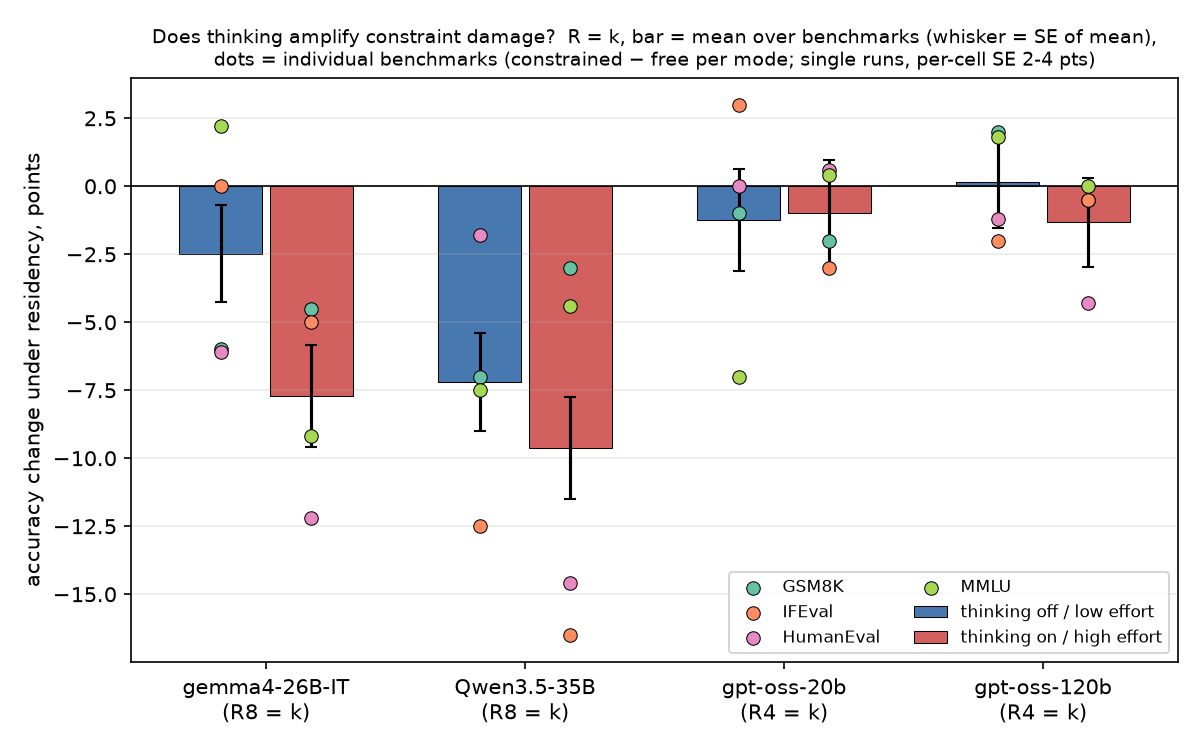
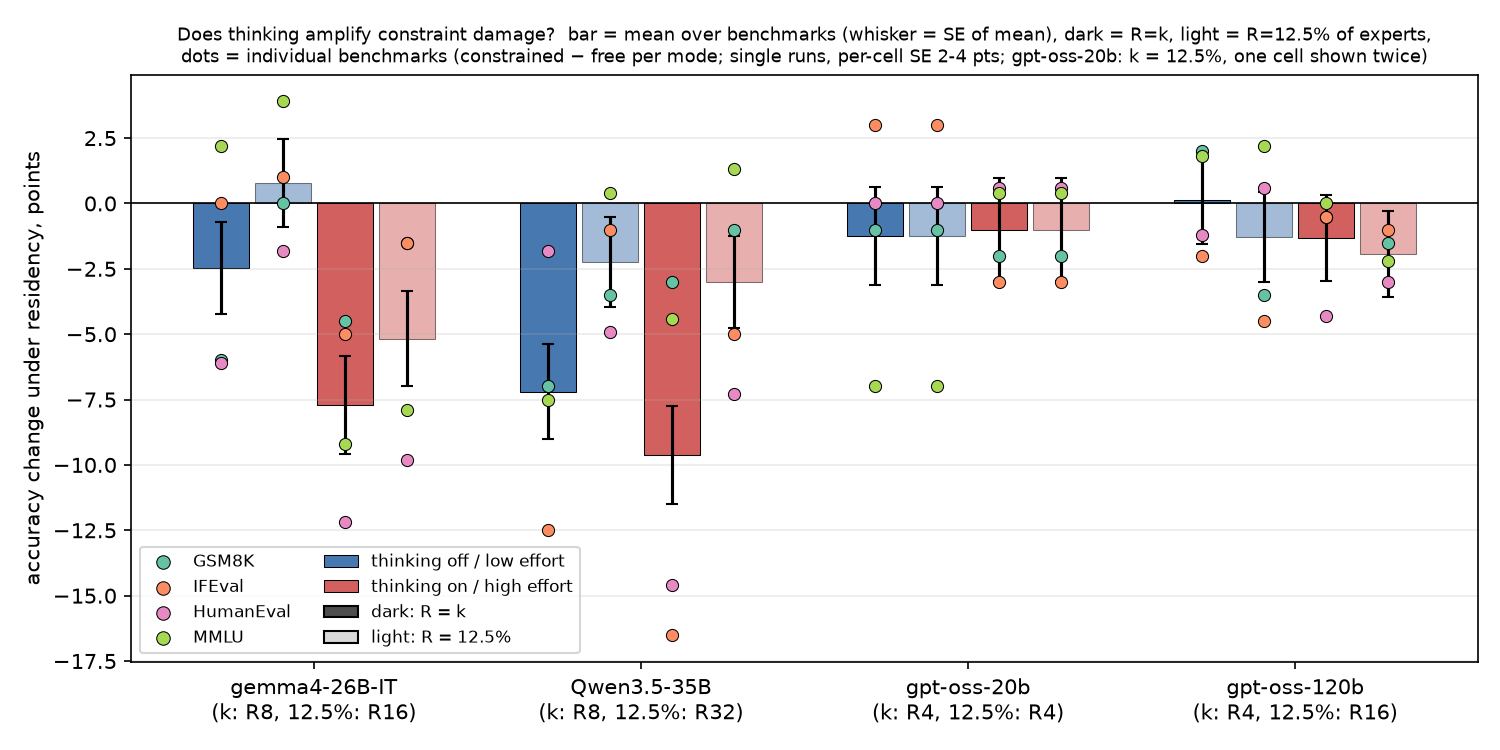
think_tax figure: add 12.5% residency baseline as light shade per mode

diff --git a/analysis/residency/think_tax_plot.py b/analysis/residency/think_tax_plot.py
@@ -16,11 +16,11 @@ import numpy as np
 sys.path.insert(0, os.path.dirname(os.path.dirname(os.path.abspath(__file__))))
 from paths import ABLATIONS                                          # noqa: E402
 
-# (model, low-mode, high-mode, R=k arm)
-SPEC = [("gemma4-26B-IT", "off", "on", "R8"),
-        ("Qwen3.5-35B", "off", "on", "R8"),
-        ("gpt-oss-20b", "low", "high", "R4"),
-        ("gpt-oss-120b", "low", "high", "R4")]
+# (model, low-mode, high-mode, R=k arm, 12.5% arm)
+SPEC = [("gemma4-26B-IT", "off", "on", "R8", "R16"),
+        ("Qwen3.5-35B", "off", "on", "R8", "R32"),
+        ("gpt-oss-20b", "low", "high", "R4", "R4"),
+        ("gpt-oss-120b", "low", "high", "R4", "R16")]
 TASKS = ["GSM8K", "IFEval", "HumanEval", "MMLU"]
 TCOL = dict(zip(TASKS, plt.cm.Set2(np.linspace(0, 0.6, 4))))
 
@@ -31,37 +31,46 @@ def main():
         if len(r) > 7 and r[0] != "model" and not r[0].startswith("#"):
             cells[(r[0], r[1], r[2], r[3])] = (float(r[6]), float(r[7]))
 
-    fig, ax = plt.subplots(figsize=(8, 5))
-    w = 0.35
-    for i, (model, lo, hi, arm) in enumerate(SPEC):
+    fig, ax = plt.subplots(figsize=(10, 5))
+    w = 0.19
+    for i, (model, lo, hi, armk, arm125) in enumerate(SPEC):
         for s, mode in enumerate((lo, hi)):
-            got = [(t,) + cells[(model, mode, arm, t)] for t in TASKS
-                   if (model, mode, arm, t) in cells]
-            if not got:
-                continue
-            ds = [d for _, d, _ in got]
-            mean = sum(ds) / len(ds)
-            se = (sum(e * e for _, _, e in got) ** 0.5) / len(got)
-            x = i + (s - 0.5) * w
-            ax.bar(x, mean, width=w * 0.92, yerr=se, capsize=3,
-                   color="#4878b0" if s == 0 else "#d1605e",
-                   edgecolor="black", lw=0.5,
-                   label=("thinking off / low effort" if s == 0 else
-                          "thinking on / high effort") if i == 0 else None)
-            for t, d, _ in got:
-                ax.scatter(x, d, s=42, color=TCOL[t], edgecolor="black",
-                           lw=0.5, zorder=3)
+            for a, arm in enumerate((armk, arm125)):
+                got = [(t,) + cells[(model, mode, arm, t)] for t in TASKS
+                       if (model, mode, arm, t) in cells]
+                if not got:
+                    continue
+                ds = [d for _, d, _ in got]
+                mean = sum(ds) / len(ds)
+                se = (sum(e * e for _, _, e in got) ** 0.5) / len(got)
+                x = i + (2 * s + a - 1.5) * w
+                ax.bar(x, mean, width=w * 0.9, yerr=se, capsize=3,
+                       color="#4878b0" if s == 0 else "#d1605e",
+                       alpha=1.0 if a == 0 else 0.5,
+                       edgecolor="black", lw=0.5,
+                       label=("thinking off / low effort" if s == 0 else
+                              "thinking on / high effort")
+                       if i == 0 and a == 0 else None)
+                for t, d, _ in got:
+                    ax.scatter(x, d, s=34, color=TCOL[t], edgecolor="black",
+                               lw=0.5, zorder=3)
     for t in TASKS:
         ax.scatter([], [], s=42, color=TCOL[t], edgecolor="black", lw=0.5, label=t)
     ax.axhline(0, color="black", lw=0.8)
     ax.set_xticks(range(len(SPEC)))
-    ax.set_xticklabels([s[0] + f"\n({s[3]} = k)" for s in SPEC])
+    ax.set_xticklabels([f"{s[0]}\n(k: {s[3]}, 12.5%: {s[4]})" for s in SPEC])
     ax.set_ylabel("accuracy change under residency, points")
-    ax.set_title("Does thinking amplify constraint damage?  R = k, "
-                 "bar = mean over benchmarks (whisker = SE of mean),\n"
+    ax.set_title("Does thinking amplify constraint damage?  "
+                 "bar = mean over benchmarks (whisker = SE of mean), "
+                 "dark = R=k, light = R=12.5% of experts,\n"
                  "dots = individual benchmarks (constrained − free per mode; "
-                 "single runs, per-cell SE 2-4 pts)", fontsize=9)
-    ax.legend(fontsize=8, ncol=2)
+                 "single runs, per-cell SE 2-4 pts; gpt-oss-20b: k = 12.5%, "
+                 "one cell shown twice)", fontsize=8.5)
+    from matplotlib.patches import Patch
+    h, l = ax.get_legend_handles_labels()
+    h += [Patch(facecolor="0.3", edgecolor="black", label="dark: R = k"),
+          Patch(facecolor="0.85", edgecolor="black", label="light: R = 12.5%")]
+    ax.legend(h, l + ["dark: R = k", "light: R = 12.5%"], fontsize=8, ncol=2)
     ax.grid(alpha=0.25, axis="y")
     fig.tight_layout()
     fig.savefig(f"{ABLATIONS}/figures/think_tax.png", dpi=150)
